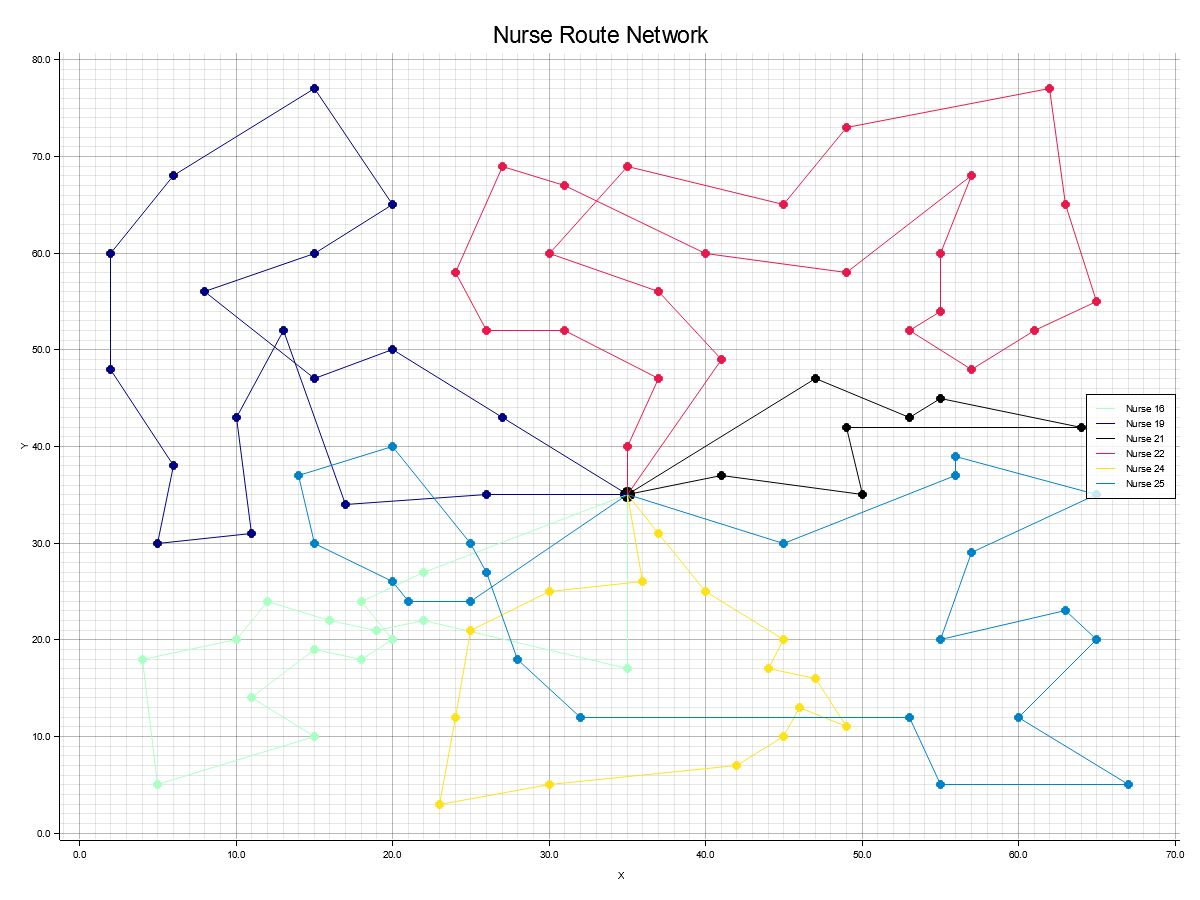
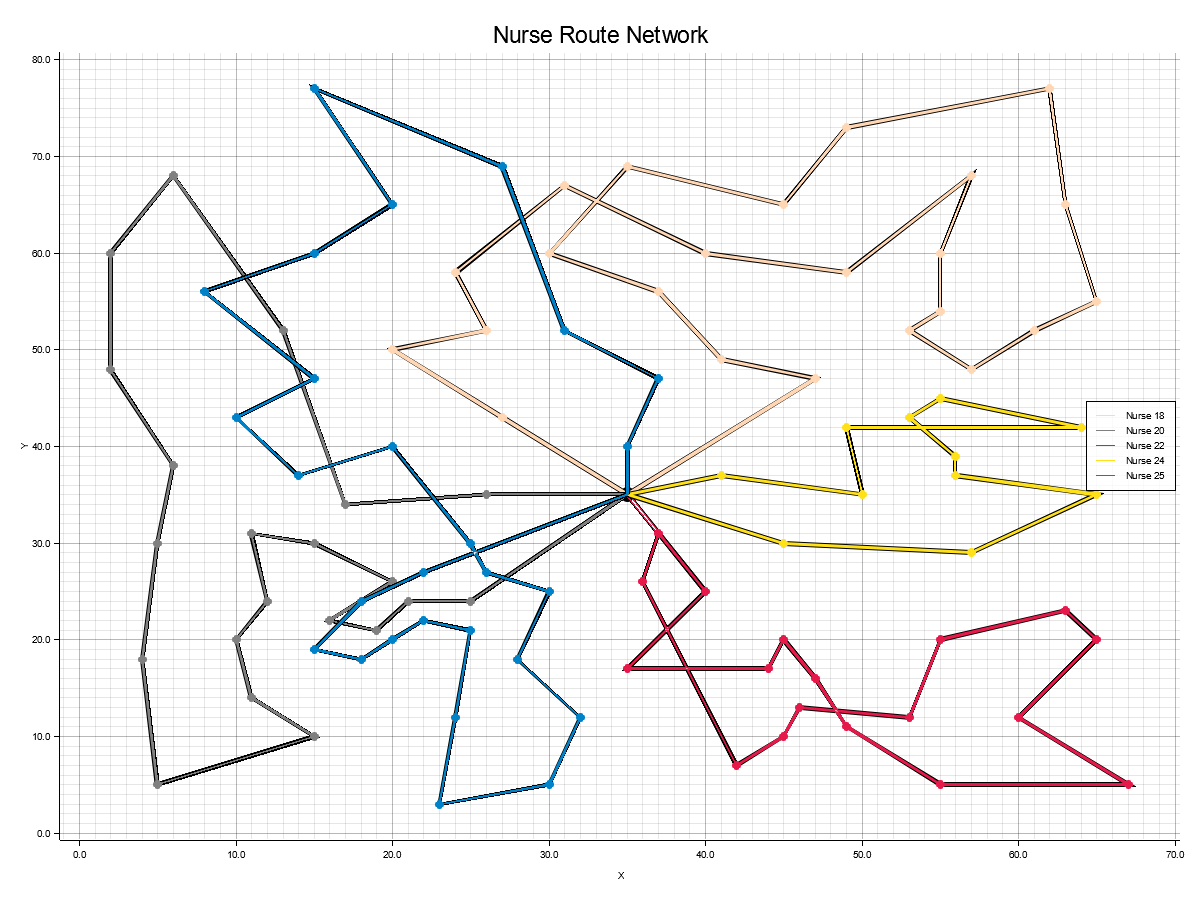
Make nurse network more readable

diff --git a/src/main.rs b/src/main.rs
@@ -386,8 +386,16 @@ fn plot_nurse_route_network(
         }
         polyline.push(depot_point);
 
+        chart.draw_series(LineSeries::new(
+            polyline.iter().copied(),
+            ShapeStyle::from(&BLACK).stroke_width(4),
+        ))?;
+
         chart
-            .draw_series(LineSeries::new(polyline.iter().copied(), &color))?
+            .draw_series(LineSeries::new(
+                polyline.iter().copied(),
+                ShapeStyle::from(&color).stroke_width(2),
+            ))?
             .label(format!("Nurse {}", nurse + 1))
             .legend(move |(x, y)| {
                 PathElement::new(vec![(x, y), (x + 18, y)], Palette99::pick(nurse))
@@ -1392,9 +1400,7 @@ fn genetic_algorithm(
         if generation > 0 && generation % 500 == 0 {
             // Run local search
             for genome in population.iter_mut() {
-                if genome.feasible {
-                    *genome = local_search(genome.clone(), instance, 20);
-                }
+                *genome = local_search(genome.clone(), instance, 20);
             }
         }
 
